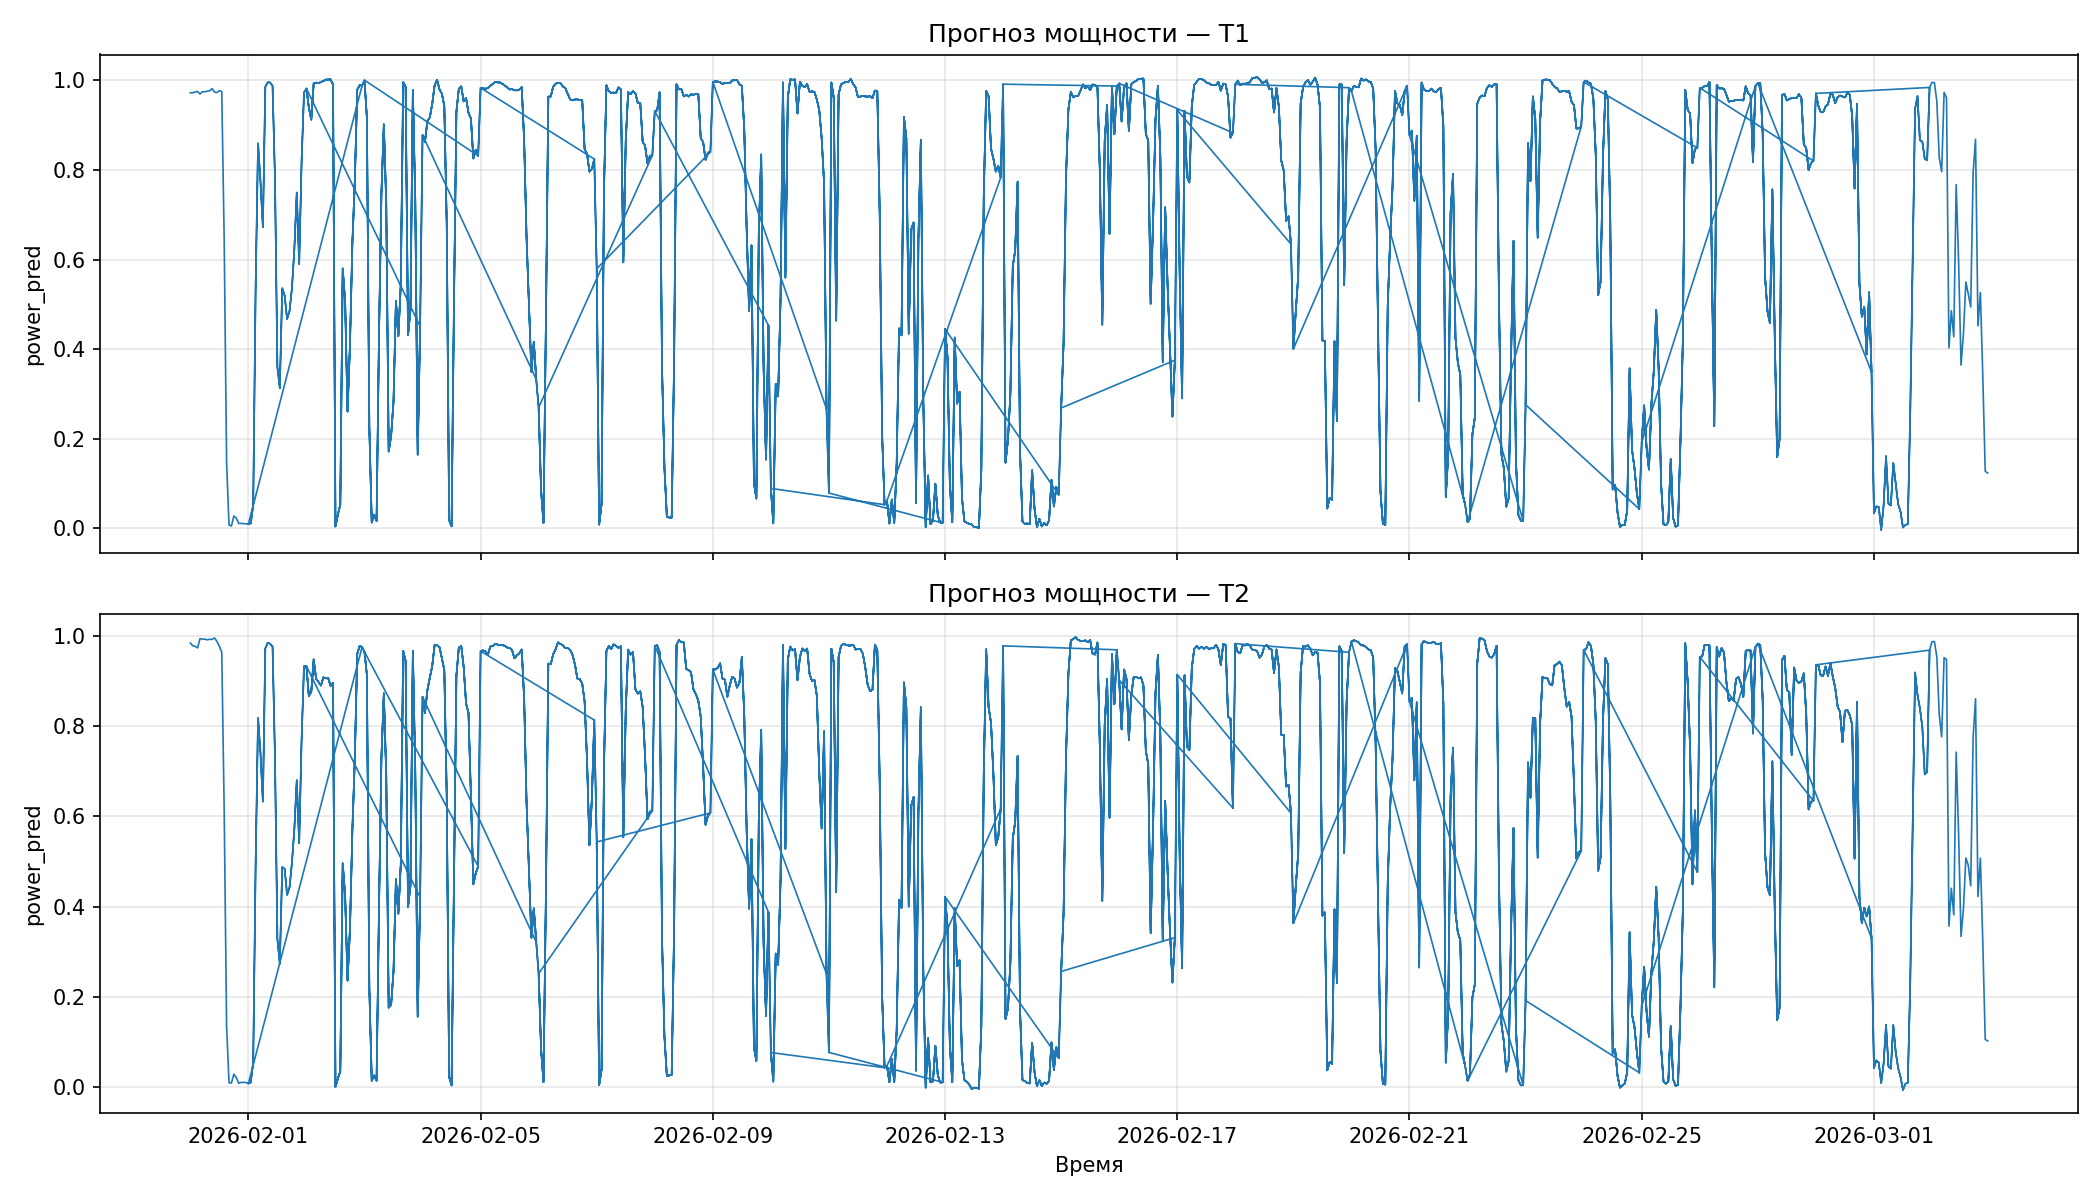
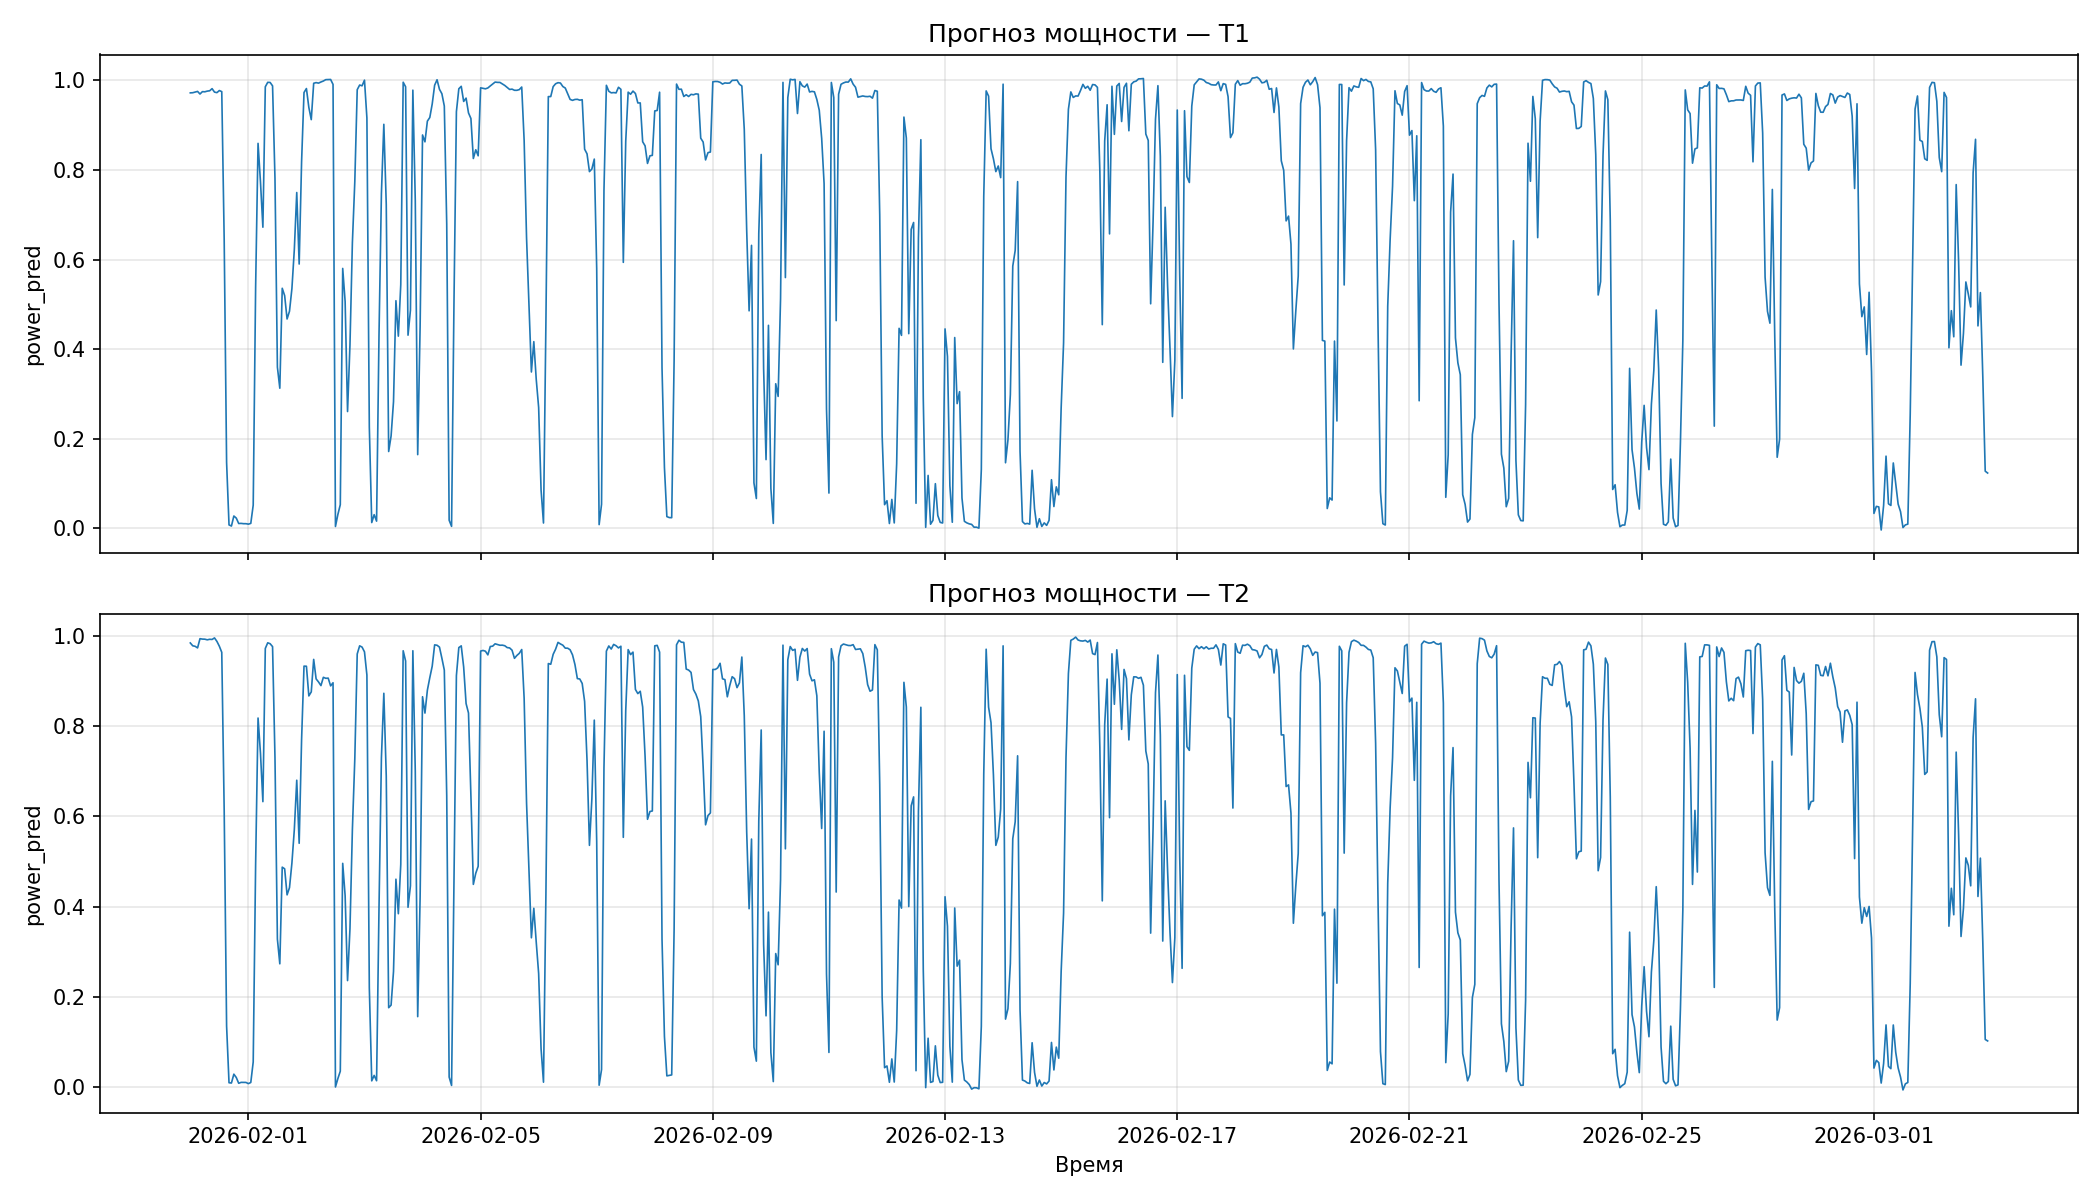
fix plot: dedupe overlapping forecast windows for clean visualization

diff --git a/src/visualize.py b/src/visualize.py
@@ -11,10 +11,17 @@ def check_output(path="data/forecast_output.csv"):
     return df
 
 def plot_forecast(df, out_path="forecast_plot.png"):
+    df = df.copy()
+    df["timestamp"] = pd.to_datetime(df["timestamp"])
+    df["forecast_made_on"] = pd.to_datetime(df["forecast_made_on"])
+    df = df.sort_values(["turbine_id", "forecast_made_on", "timestamp"])
+    df = df.drop_duplicates(subset=["turbine_id", "timestamp"], keep="last")
+    df = df.sort_values(["turbine_id", "timestamp"])
+
     fig, axes = plt.subplots(2, 1, figsize=(14, 8), sharex=True)
     for ax, tid in zip(axes, df["turbine_id"].unique()):
         sub = df[df["turbine_id"] == tid]
-        ax.plot(pd.to_datetime(sub["timestamp"]), sub["power_pred"], linewidth=0.8)
+        ax.plot(sub["timestamp"], sub["power_pred"], linewidth=0.8)
         ax.set_title(f"Прогноз мощности — {tid}")
         ax.set_ylabel("power_pred")
         ax.grid(alpha=0.3)
@@ -26,4 +33,3 @@ def plot_forecast(df, out_path="forecast_plot.png"):
 if __name__ == "__main__":
     df = check_output()
     plot_forecast(df)
-    
